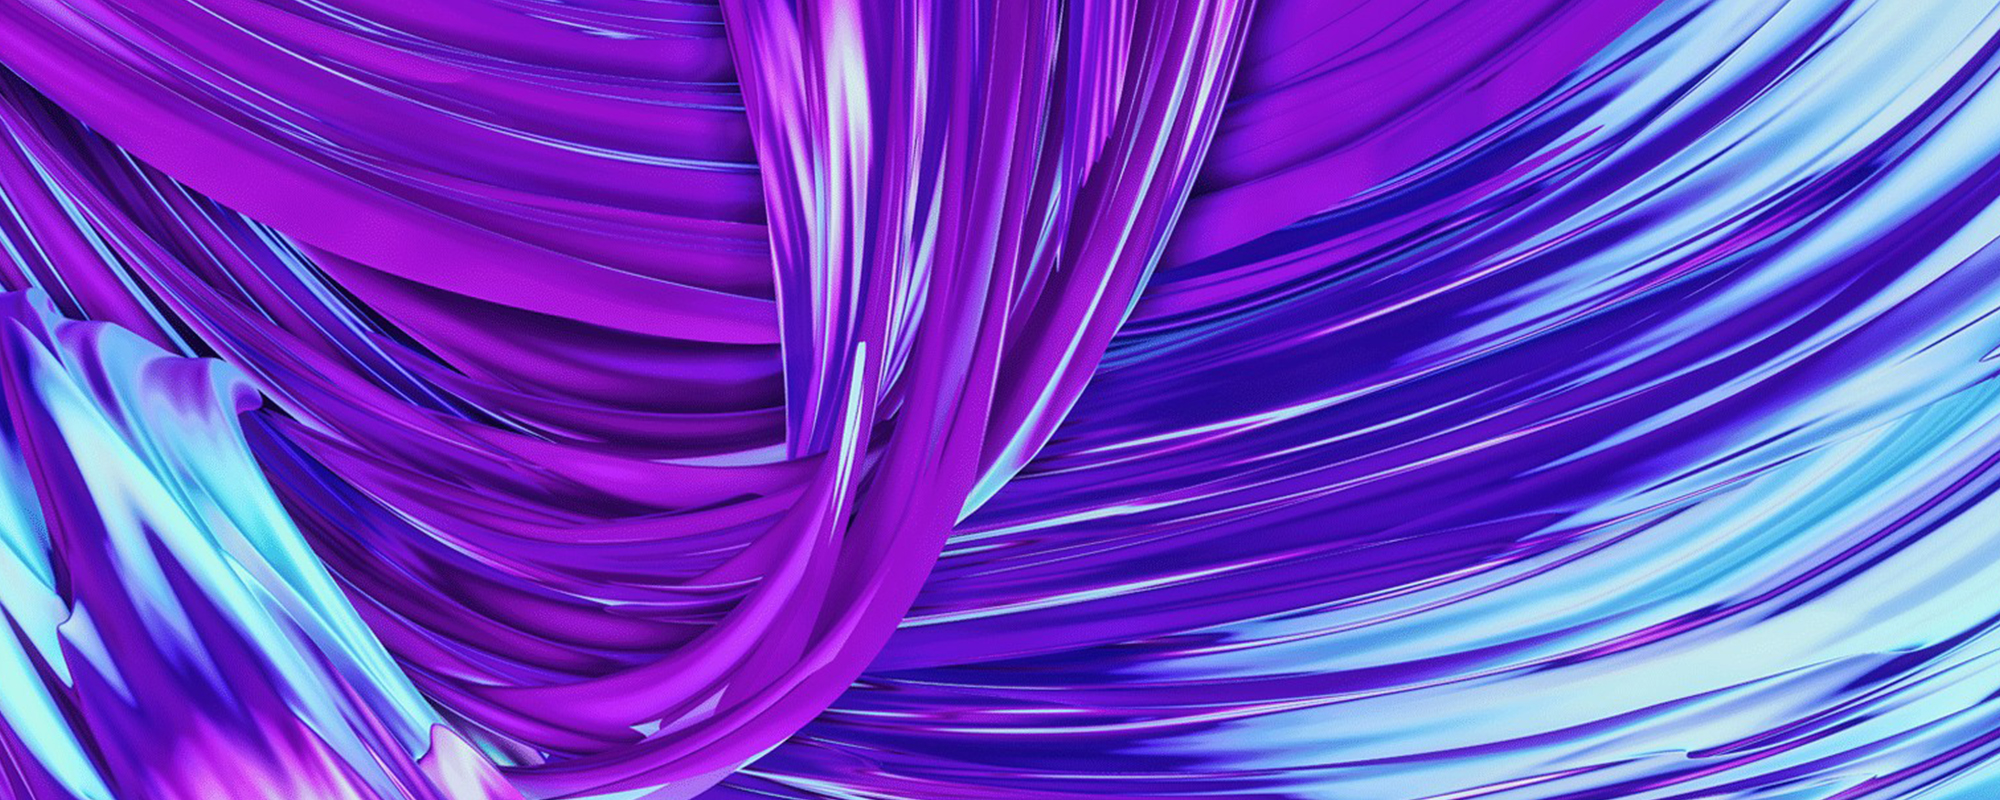
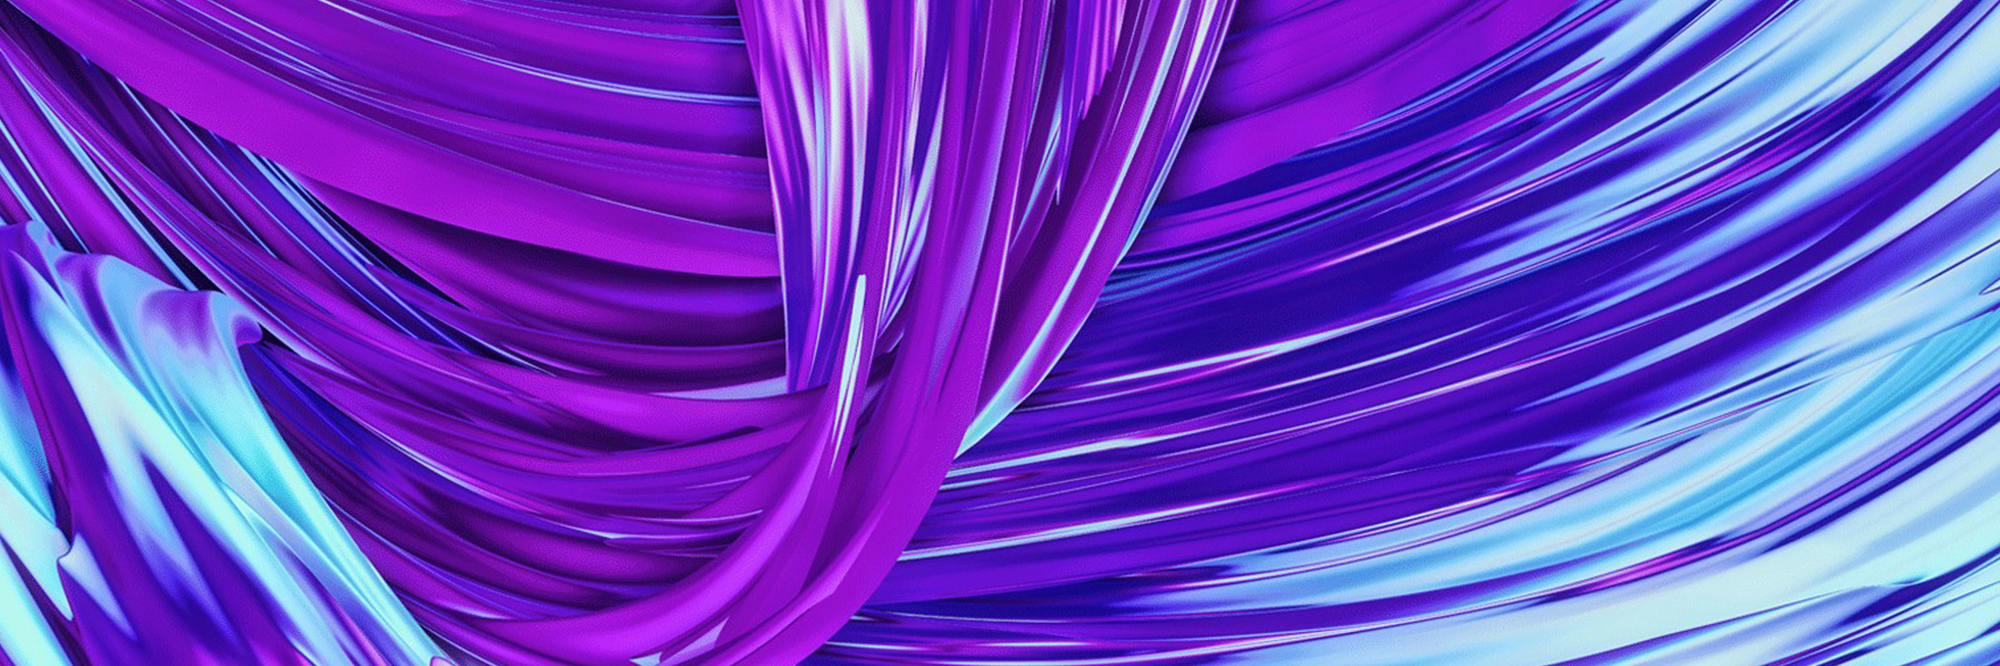
Oppdaterte bilete

diff --git a/drommebedriften/src/app/database-bedrifter.ts b/drommebedriften/src/app/database-bedrifter.ts
@@ -59,7 +59,7 @@ export const Bedrifter: Bedrift[] = [
         ruterLink: 'bouvet',
         logoLink: `${LocalPaths.path_bedriftLogo}bouvet.png`,
         framsidebileteLink: `${LocalPaths.path_bedriftFramsidebilete}Bouvet.jpg`,
-        framsidebiletePosisjon: 'center -35vh',
+        framsidebiletePosisjon: 'center -50vh',
         beskriving1: `Vil du jobbe med noen av Norges mest fremtredende virksomheter og være med å skape løsninger med stor betydning for enkeltmennesker så vel som for samfunnet? Ønsker du å kunne påvirke din egen hverdag og din egen utvikling? Vil du prøve nye veier uten å stenge gamle?`,
         linktekst1: 1,
         link1: 'https://www.bouvet.no/om-bouvet',
@@ -217,7 +217,7 @@ export const Bedrifter: Bedrift[] = [
         ruterLink: 'knowit',
         logoLink: `${LocalPaths.path_bedriftLogo}Knowit.png`,
         framsidebileteLink: `${LocalPaths.path_bedriftFramsidebilete}Knowit.jpg`,
-        framsidebiletePosisjon: 'center -19vh',
+        framsidebiletePosisjon: 'center -0vh',
         beskriving1: `Knowit er Nordens største digitalbyrå. Vi lager en haug med løsninger som gjør hverdagen bedre og enklere for millioner av mennesker. Du har kanskje hørt om Vipps, RuterReise og BankID på mobil? Knowit er idédrevet, og oppmuntrer innovasjon, tverrfaglighet og personlig engasjement. Siden 1990 har vi turt å tenke annerledes her eneste dag, og våre 2300 entusiaster innenfor teknologi, design, strategi og kommunikasjon finner nye måter å gjøre ting enda bedre på. Vi har kontorer midt i smørøyet av Bergen og Oslo, i tillegg til Stavanger og Kristiansand. Hos Knowit får du en spennende og sosial arbeidsplass med høyt fokus på faglig utvikling – hvor kolleger heier på hverandre og deler ut high fives over en lav sko.`,
         linktekst1: 1,
         link1: 'https://www.knowit.no/',
@@ -379,7 +379,7 @@ export const Bedrifter: Bedrift[] = [
         namn: 'Capgemini',
         ruterLink: 'capgemini',
         logoLink: `${LocalPaths.path_bedriftLogo}Capgemini.png`,
-        framsidebileteLink: `${LocalPaths.path_bedriftFramsidebilete}Capgemini.jpg`,
+        framsidebileteLink: `${LocalPaths.path_bedriftframsidebilete}Capgemini.jpg`,
         framsidebiletePosisjon: 'center -14vh',
         beskriving1: `Med mer enn 270 000 ansatte i over 40 land er Capgemini et av verdens ledende selskaper innen teknologi og rådgivning. Capgemini utvikler og leverer forretnings- og teknologiløsninger som møter kundenes behov, og hjelper med å oppnå de resultatene de ønsker. I Norge har vi rundt 1200 konsulenter som jobber med på interessante oppdrag i privat og offentlig sektor. Vi har kontorer i Oslo, Bergen, Stavanger, Fredrikstad, Trondheim og Lillehammer.`,
         beskriving2: null,
